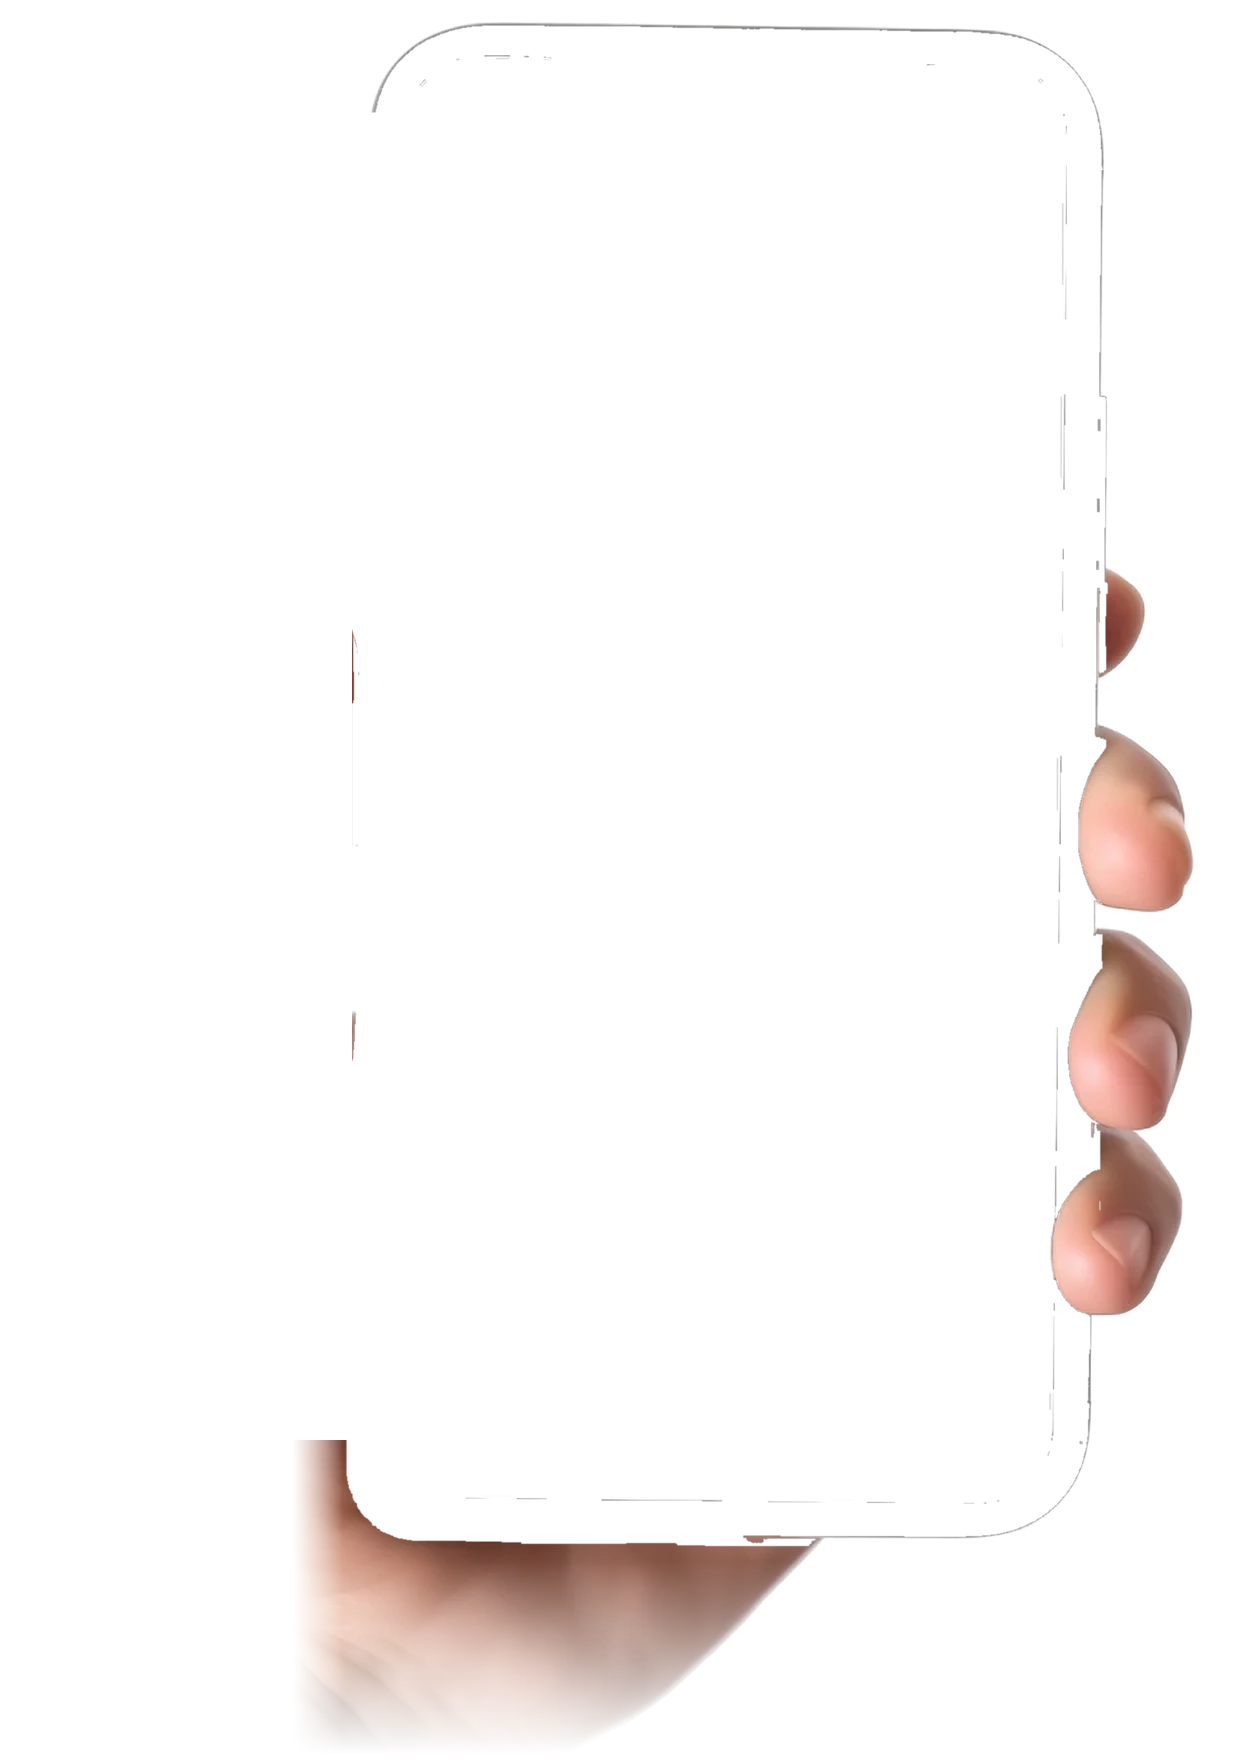
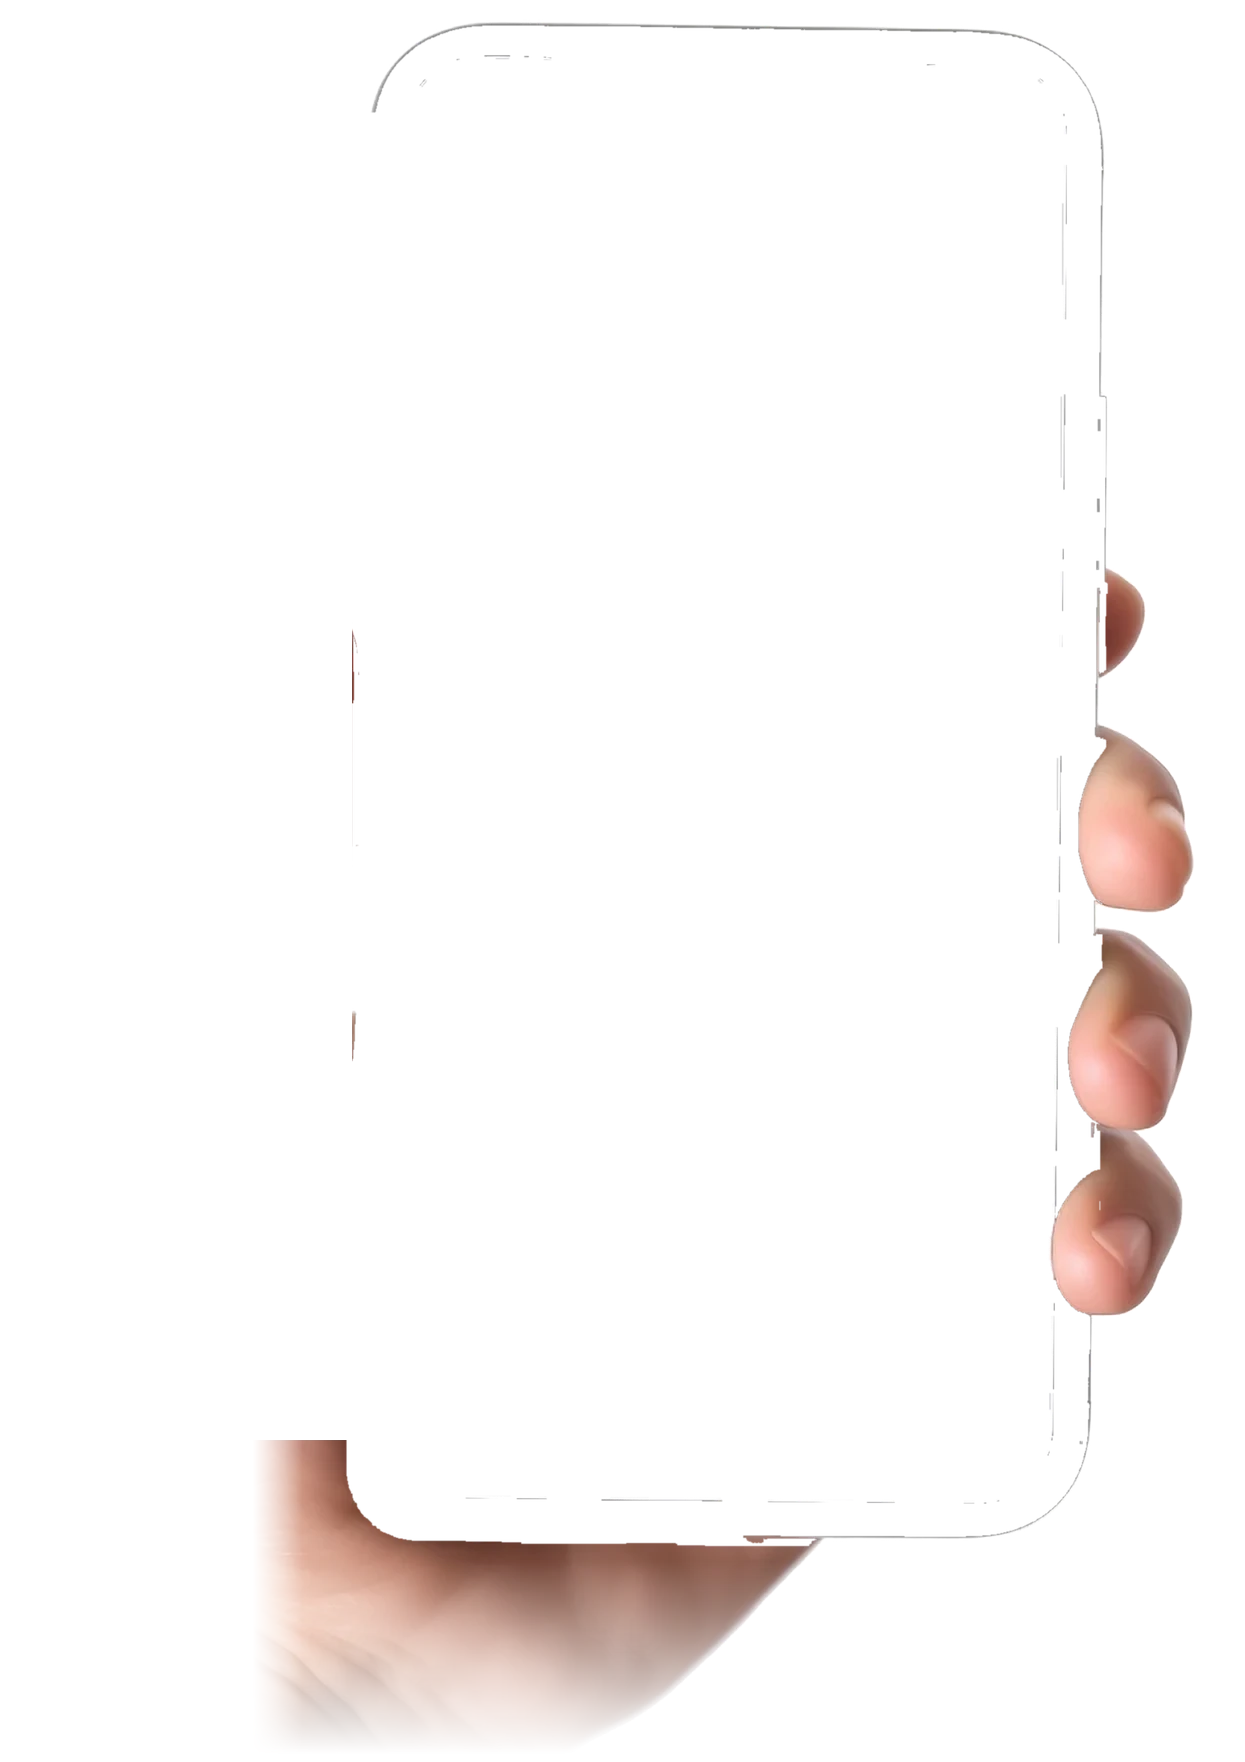
Hand's inner edge is a rounded skin outline instead of the photo's straight cut along the phone

Changed region(s): [[0.2137, 0.8116, 0.2747, 0.9989]]

diff --git a/index.html b/index.html
@@ -60,7 +60,7 @@
       <video src="video/request-flow.mp4?v=6" poster="video/request-flow.jpg?v=5" width="604" height="1312" autoplay muted playsinline preload="auto" aria-label="A short video of someone holding an iPhone and requesting an office in OfficeSwap with their thumb: they tap Request an Office, pick Tuesday and Wednesday, and get an office for both days."></video>
       <img class="hold-phone" src="images/hand/phone.webp?v=5" alt="" width="1245" height="1762">
       <img class="hold-still" src="images/hand/handhold.webp?v=14" alt="" width="1245" height="1762">
-      <canvas class="hold-hand" aria-hidden="true" data-thumb="images/hand/thumb.webp?v=10" data-palm="images/hand/palm.webp?v=10"></canvas>
+      <canvas class="hold-hand" aria-hidden="true" data-thumb="images/hand/thumb.webp?v=11" data-palm="images/hand/palm.webp?v=11"></canvas>
     </div>
     <button type="button" class="replay" hidden aria-label="Play the video again"><svg viewBox="0 0 24 24" fill="none" stroke="currentColor" stroke-width="2" stroke-linecap="round" stroke-linejoin="round" aria-hidden="true"><path d="M3.5 12a8.5 8.5 0 1 0 2.6-6.1"/><path d="M3.5 4v4.5H8"/></svg></button>
   </div>
@@ -256,7 +256,7 @@
       <video src="video/request-flow.mp4?v=6" poster="video/request-flow.jpg?v=5" width="604" height="1312" muted playsinline preload="metadata" data-play="in-view" aria-label="The same short video: someone holding an iPhone and requesting an office in OfficeSwap with their thumb: they tap Request an Office, pick Tuesday and Wednesday, and get an office for both days."></video>
       <img class="hold-phone" src="images/hand/phone.webp?v=5" alt="" width="1245" height="1762">
       <img class="hold-still" src="images/hand/handhold.webp?v=14" alt="" width="1245" height="1762">
-      <canvas class="hold-hand" aria-hidden="true" data-thumb="images/hand/thumb.webp?v=10" data-palm="images/hand/palm.webp?v=10"></canvas>
+      <canvas class="hold-hand" aria-hidden="true" data-thumb="images/hand/thumb.webp?v=11" data-palm="images/hand/palm.webp?v=11"></canvas>
     </div>
     <button type="button" class="replay" hidden aria-label="Play the video again"><svg viewBox="0 0 24 24" fill="none" stroke="currentColor" stroke-width="2" stroke-linecap="round" stroke-linejoin="round" aria-hidden="true"><path d="M3.5 12a8.5 8.5 0 1 0 2.6-6.1"/><path d="M3.5 4v4.5H8"/></svg></button>
   </div>
